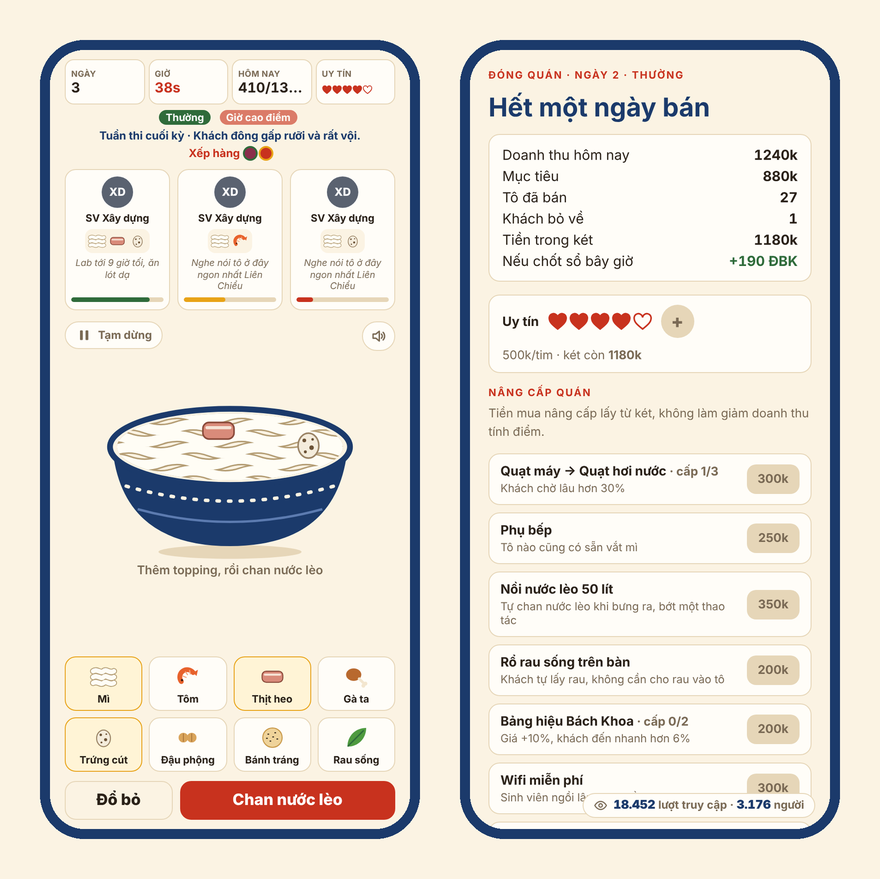
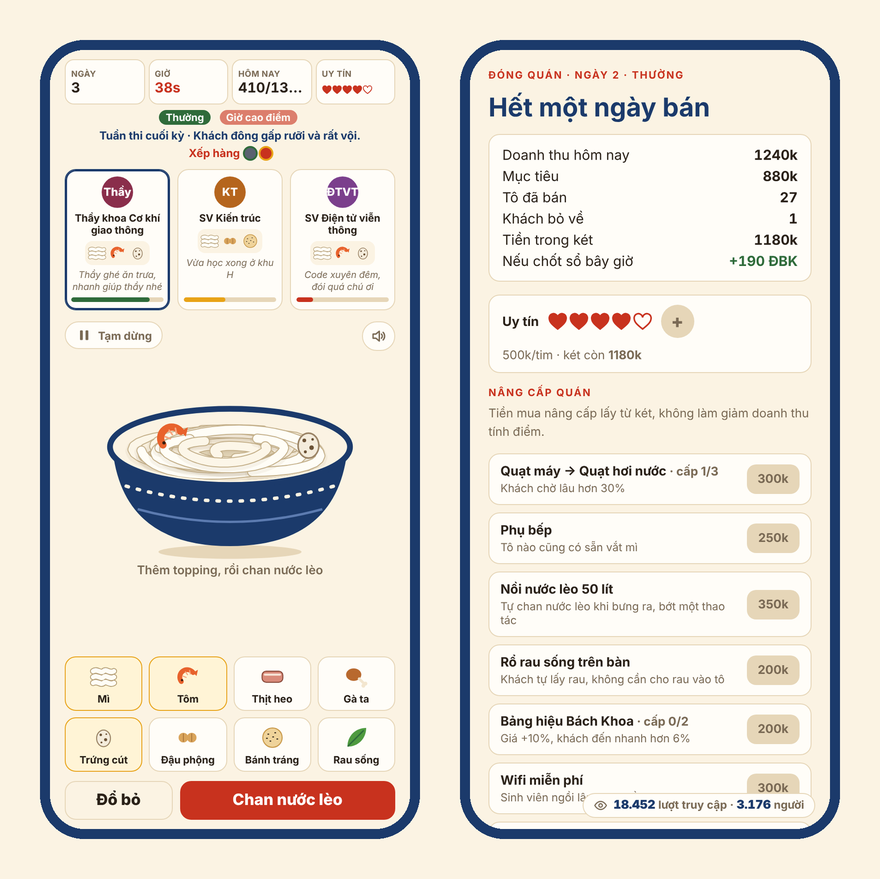
Vẽ lại vắt mì Quảng trong tô: sợi trắng dẹt cuộn thành ổ, nước lèo xâm xấp ở đáy (bản 2.17.1)
Claude-Session: https://claude.ai/code/session_01MnZhEGwkcVovQiu9SzVjWJ

diff --git a/js/hien-thi.js b/js/hien-thi.js
@@ -34,6 +34,20 @@ function updateBars(){
     bar.style.background=r>.5?'var(--leaf)':r>.25?'var(--turmeric)':'var(--chili)';
   });
 }
+// Vắt mì Quảng trong tô (bản 2.17.1): sợi dẹt to bản màu trắng ngà cuộn thành ổ, viền nâu nhạt và bóng mờ.
+// Dựng một lần với số ngẫu nhiên cố định nên tô không đổi hình mỗi lần vẽ lại.
+const MI_TO=(()=>{let q=9;const r=()=>(q=(q*1103515245+12345)&0x7fffffff)/0x7fffffff, RX=78, RY=20, W=7, ds=[];
+  for(let i=0;i<18;i++){
+    const sc=.12+.88*Math.sqrt(r()), cx=120+(r()-.5)*14, cy=56+(r()-.5)*5, t1=r()*Math.PI*2,
+      span=(1.1+r()*1.6)*Math.PI*(r()<.5?1:-1), wob=2+r()*3, ph=r()*6;
+    let d=''; for(let j=0;j<=28;j++){const t=t1+span*j/28, rr=1+.06*Math.sin(ph+t*3);
+      d+=(j?'L':'M')+(cx+Math.cos(t)*RX*sc*rr).toFixed(1)+' '+(cy+Math.sin(t)*RY*sc*rr+Math.sin(ph+t*2)*wob*.3).toFixed(1)}
+    ds.push({d,z:r(),c:['#FFFDF6','#FCF6E8','#F8EFDD'][Math.floor(r()*3)]});
+  }
+  ds.sort((a,b)=>a.z-b.z);
+  return `<ellipse cx="120" cy="57" rx="${RX+4}" ry="${RY+3}" fill="#E3D5B8"/><g fill="none" stroke-linecap="round" stroke-linejoin="round">`+
+    ds.map(a=>`<path d="${a.d}" stroke="#A8957018" stroke-width="${W+5}" transform="translate(0 1.6)"/><path d="${a.d}" stroke="#C4B08A" stroke-width="${W+1.6}"/><path d="${a.d}" stroke="${a.c}" stroke-width="${W}"/>`).join('')+'</g>';
+})();
 function renderBowl(){
   const b=D.bowl;
   let s=`<defs><clipPath id="in"><ellipse cx="120" cy="52" rx="98" ry="29"/></clipPath></defs>
@@ -42,10 +56,10 @@ function renderBowl(){
   <path d="M30 86 Q120 112 210 86" fill="none" stroke="#FBF3E3" stroke-width="3" stroke-dasharray="2 8" stroke-linecap="round"/>
   <path d="M40 106 Q120 128 200 106" fill="none" stroke="#5C7BB0" stroke-width="2"/>
   <ellipse cx="120" cy="52" rx="104" ry="33" fill="#FBF3E3" stroke="#1B3A6B" stroke-width="5"/><g clip-path="url(#in)">`;
-  // Mì Quảng: sợi dẹt to bản màu trắng ngà, có viền mảnh để nổi trên lòng tô màu kem
-  if(b.items.has('mi')){let d='';for(let y=25,i=0;y<88;y+=10,i++) d+=`M${4+(i%2)*14} ${y} q14 -5 28 0 t28 0 t28 0 t28 0 t28 0 t28 0 t28 0 t28 0 `;
-    s+=`<g fill="none" stroke-linecap="round"><path d="${d}" stroke="#B49D74" stroke-width="11"/><path d="${d}" stroke="#FFFDF5" stroke-width="8.4"/></g>`}
-  if(b.broth) s+=`<ellipse cx="120" cy="58" rx="100" ry="26" fill="#D9822B" opacity=".55"/><ellipse cx="90" cy="44" rx="30" ry="4" fill="#fff" opacity=".25"/>`;
+  // Bản 2.17.1: nước lèo xâm xấp ở đáy (mì Quảng ít nước), vắt mì trắng cuộn thành ổ nằm trên
+  if(b.broth) s+=`<ellipse cx="120" cy="56" rx="100" ry="27" fill="#E0A04A"/><ellipse cx="120" cy="56" rx="100" ry="27" fill="#C9772A" opacity=".35"/>`;
+  if(b.items.has('mi')) s+=MI_TO;
+  if(b.broth) s+=`<g fill="#F2C14E" opacity=".9"><circle cx="40" cy="58" r="2.2"/><circle cx="200" cy="54" r="1.8"/><circle cx="60" cy="72" r="1.6"/><circle cx="185" cy="70" r="2"/></g>`;
   s+=`</g>`;
   TOPS.forEach(k=>{if(b.items.has(k)){const [x,y]=POS[k];s+=`<g transform="translate(${x} ${y}) scale(.9)">${ING[k].s}</g>`}});
   if(!b.items.size) s+=`<text x="120" y="57" text-anchor="middle" font-family="Be Vietnam Pro, sans-serif" font-size="12" fill="#7A6A55">Tô trống</text>`;

diff --git a/index.html b/index.html
@@ -30,7 +30,7 @@ try{var t=localStorage.getItem('mqbk-theme');if(t==='light'||t==='dark')document
 <link rel="canonical" href="https://miquangbk.com/">
 <link rel="preconnect" href="https://fonts.googleapis.com">
 <link rel="stylesheet" href="https://fonts.googleapis.com/css2?family=Baloo+2:wght@600;800&family=Be+Vietnam+Pro:wght@400;600;700&display=swap">
-<link rel="stylesheet" href="css/giao-dien.css?v=2.17.0">
+<link rel="stylesheet" href="css/giao-dien.css?v=2.17.1">
 </head>
 <body>
 <div id="app">
@@ -65,23 +65,23 @@ try{var t=localStorage.getItem('mqbk-theme');if(t==='light'||t==='dark')document
 </div>
 
 <script src="https://cdn.jsdelivr.net/npm/@supabase/supabase-js@2.45.4/dist/umd/supabase.js"></script>
-<script src="js/ban-ghi.js?v=2.17.0"></script>
-<script src="js/cau-hinh.js?v=2.17.0"></script>
-<script src="js/hang.js?v=2.17.0"></script>
-<script src="js/vong-choi.js?v=2.17.0"></script>
-<script src="js/mang.js?v=2.17.0"></script>
-<script src="js/am-thanh.js?v=2.17.0"></script>
-<script src="js/nop-diem.js?v=2.17.0"></script>
-<script src="js/hien-thi.js?v=2.17.0"></script>
-<script src="js/tai-khoan.js?v=2.17.0"></script>
-<script src="js/man-hinh.js?v=2.17.0"></script>
-<script src="js/solo.js?v=2.17.0"></script>
-<script src="js/thong-bao.js?v=2.17.0"></script>
-<script src="js/hieu-ung.js?v=2.17.0"></script>
-<script src="js/giu-quan.js?v=2.17.0"></script>
-<script src="js/ban-be.js?v=2.17.0"></script>
-<script src="js/ve-game.js?v=2.17.0"></script>
-<script src="js/dieu-huong.js?v=2.17.0"></script>
-<script src="js/khoi-dong.js?v=2.17.0"></script>
+<script src="js/ban-ghi.js?v=2.17.1"></script>
+<script src="js/cau-hinh.js?v=2.17.1"></script>
+<script src="js/hang.js?v=2.17.1"></script>
+<script src="js/vong-choi.js?v=2.17.1"></script>
+<script src="js/mang.js?v=2.17.1"></script>
+<script src="js/am-thanh.js?v=2.17.1"></script>
+<script src="js/nop-diem.js?v=2.17.1"></script>
+<script src="js/hien-thi.js?v=2.17.1"></script>
+<script src="js/tai-khoan.js?v=2.17.1"></script>
+<script src="js/man-hinh.js?v=2.17.1"></script>
+<script src="js/solo.js?v=2.17.1"></script>
+<script src="js/thong-bao.js?v=2.17.1"></script>
+<script src="js/hieu-ung.js?v=2.17.1"></script>
+<script src="js/giu-quan.js?v=2.17.1"></script>
+<script src="js/ban-be.js?v=2.17.1"></script>
+<script src="js/ve-game.js?v=2.17.1"></script>
+<script src="js/dieu-huong.js?v=2.17.1"></script>
+<script src="js/khoi-dong.js?v=2.17.1"></script>
 </body>
 </html>

diff --git a/js/cau-hinh.js b/js/cau-hinh.js
@@ -1,6 +1,6 @@
 /* Mì Quảng Bách Khoa · js/cau-hinh.js: Cấu hình, dữ liệu game (nguyên liệu, khách, nâng cấp, độ khó) và biến trạng thái dùng chung.
    Script thường (không phải module): mọi file dùng chung biến toàn cục, nạp theo thứ tự trong index.html. */
-const PHIEN_BAN='2.17.0';   // nhớ đổi cả ?v= trong index.html
+const PHIEN_BAN='2.17.1';   // nhớ đổi cả ?v= trong index.html
 /* ================= Cấu hình ================= */
 const SB_URL = 'https://fvacenxojembebqqxgfp.supabase.co';
 const SB_KEY = 'sb_publishable_w4bY8tj9UT-6sFUlXBlOdA_XBEH76qD'; // khoá công khai, an toàn khi để ở client

diff --git a/CLAUDE.md b/CLAUDE.md
@@ -56,7 +56,7 @@ Game web (điện thoại + laptop) cho sinh viên Đại học Bách Khoa Đà 
 - Về game (bản 2.16.0, `js/ve-game.js`): `veGameScreen(back)` mở từ link `#vegame` ở màn chính và màn đăng nhập (màn đăng ký có câu đồng ý chính sách). Ngày online lần đầu `VE_GAME_RA_MAT` 24/10/2026, `VE_GAME_CAP_NHAT`. Nội dung: dữ liệu thu thập, ai thấy gì, bảo mật, các bên liên quan (Supabase Singapore, GitHub Pages, Resend, jsDelivr, Google Fonts, dịch vụ push) kèm link chính sách, quyền người dùng (xoá tài khoản qua email). **Đổi cách thu thập/hiển thị dữ liệu thì sửa màn này và ngày cập nhật.**
 - Xem trước link (bản 2.16.0): `icons/og-image.png` 1200×630 (dựng bằng Playwright, font DejaVu) + thẻ og:url/og:type/og:image:width/height + twitter:card trong index.html. Facebook/Messenger lưu đệm: sau khi đổi ảnh vào developers.facebook.com/tools/debug bấm "Scrape Again".
 - Sinh viên BKĐN hay không (bản 2.17.0): cột `profiles.sinh_vien` (mặc định true, tài khoản cũ giữ nguyên). Không phải sinh viên thì `khoa_id`, `lop` = null (ràng buộc `profiles_sinh_vien_chk`). `profileScreen` có câu hỏi Có/Không (`[data-sv]`, `#svFields`, lưu ý `#svNote`; người mới phải chọn). Helper `laSV(p)` (sinh_vien ?? có lop), `lopKhoaHTML(p, khoa|false)` (lớp · khoa, hoặc nhãn `NGOAI_BK` "Ngoài BK"). Bảng xếp hạng: tab `sv` tên "Cá nhân"; tab Cá nhân và Solo có bộ lọc `.lb-loc [data-loc=tat_ca|sv]` (`lbLoc`, localStorage `mqbk-loc`); lọc sinh viên dùng `hang_sv`. Bảng Lớp/Khoa chỉ tính sinh viên.
-- Sợi mì (bản 2.17.0): mì Quảng vẽ sợi dẹt to bản màu trắng ngà có viền (`ING.mi` trong cau-hinh.js, `renderBowl` trong hien-thi.js), không dùng sợi vàng xoăn kiểu mì tôm.
+- Sợi mì (bản 2.17.0–2.17.1): mì Quảng màu trắng ngà, sợi dẹt to bản, không dùng sợi vàng xoăn kiểu mì tôm. Nút: `ING.mi` (cau-hinh.js). Trong tô: `MI_TO` (hien-thi.js) dựng một lần bằng số ngẫu nhiên cố định — 18 sợi cuộn thành ổ trên nền `#E3D5B8`; chan nước lèo thì vẽ nước cam ở đáy *trước* rồi mới đến mì (mì Quảng ít nước), thêm vài giọt mỡ điều.
 - Giao diện: theme sáng/tối/tự động (`applyTheme`, `data-theme`, localStorage), phím tắt laptop (1–8, Space, Q/W/E/R, X), kéo để tải lại (tắt khi đang chơi).
 
 ## Supabase

diff --git a/README.md b/README.md
@@ -69,7 +69,7 @@ flowchart LR
 
 ### Thao tác làm một tô mì
 
-1. Bấm **Mì** để cho vắt mì vào tô. Sợi mì Quảng vẽ đúng kiểu thật: dẹt, to bản, màu trắng ngà.
+1. Bấm **Mì** để cho vắt mì vào tô. Sợi mì Quảng vẽ đúng kiểu thật: dẹt, to bản, màu trắng ngà, cuộn thành ổ trong tô; chan nước lèo thì nước chỉ xâm xấp ở đáy như mì Quảng thật.
 2. Thêm **đúng các topping** khách gọi. Có 7 loại: tôm, thịt heo, gà ta, trứng cút, đậu phộng, bánh tráng, rau sống.
 3. Bấm **Chan nước lèo**.
 4. Bấm vào khách để bưng ra. Nếu làm sai, bấm **Đổ bỏ** để làm lại.
